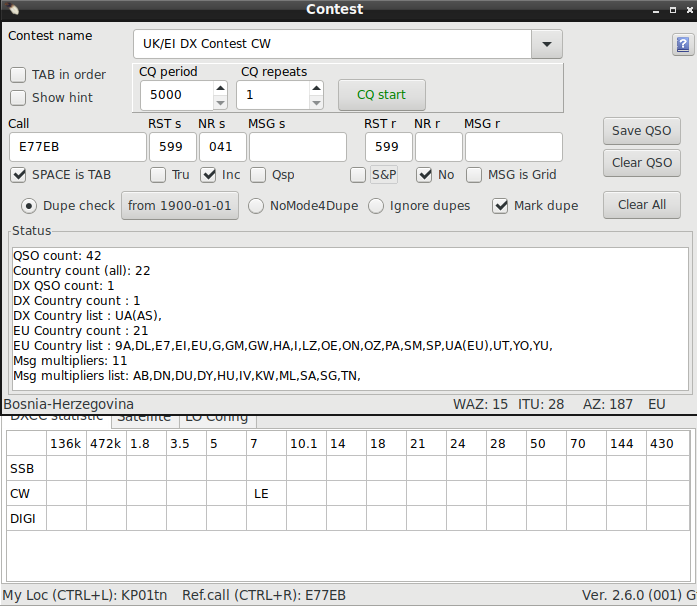
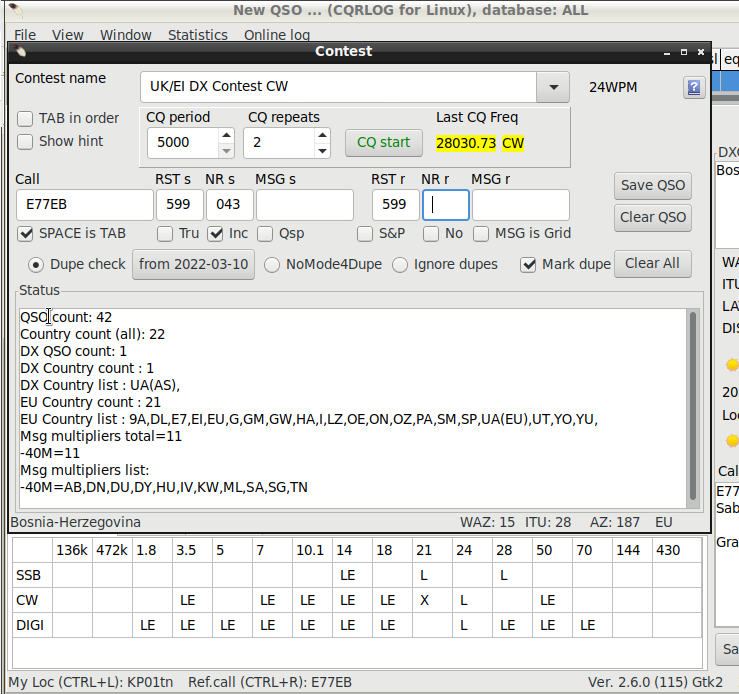
Contest: Store/restore last used CQ frequency

diff --git a/help/contest.html b/help/contest.html
@@ -87,7 +87,9 @@ Add date to contest name if you keep many contests in same log. That way <b>QSO 
     <li><b>CQ start</b> start/stop repeated CQ calling. <b>Shorcut key: Shift+F1</b>. 
     <br>Pressing <b>ESC</b> stops timer and CW send. It can not stop voice keyer script.
     <br>Also writing anyting to <b>Call</b> will stop running timer and CW sending.</li>
-    </li></ul>
+    </li>
+<li><b>Last Cq Freq</b> will show last used CQ frequency and mode. CQ frequency and mode is stored when F1 memory is launched either from keybord or from Memory keys F1 button.
+    Click on frequency or mode reading or Ctrl+L will restore rig to that frequency and mode. This value is not stored and clears when contest window is closed.</li></ul>
 <li><b>Call</b> when you leave this field callsign is moved to NewQSO. Callsign <b>turns BOLD RED</b> while typing if it is duplicate (and duplicate check is active).</li>
 <li><b>SPACE is TAB</b> when checked space bar acts like TAB-key moving to next field. <b>Note:</b>This prevents typing space (perhaps needed in MSG fields).</li>
 <li><b>Dupe check</b> Default checked. If you use same log for several contests, and/or other working, set the contest start date with <b>from YY-MM-DD</b> button.

diff --git a/src/changelog.html b/src/changelog.html
@@ -10,6 +10,7 @@
     <strong>Alpha test version of CQRLOG 2.6.0 (115)</strong><br>
     New in this alpha version (not in official version):<br>
     <ul style="list-style: square;text-align:left; color: green;" >
+    <li>Contest: Stores last used CQ frequency and mode when in Run. Click (or Ctrl+L) over reading resets rig to that freq+mode</li>
     <li>Added checbox 'DATA' to 'show only spots' at /preferences/DXCluster. Help files fixed</li>
     <li>DXCluster: fixed response missing for "sh/he e6" (all prefixes E1..E9)</li>
     <li>Small view fix in RBN monitor header</li>
